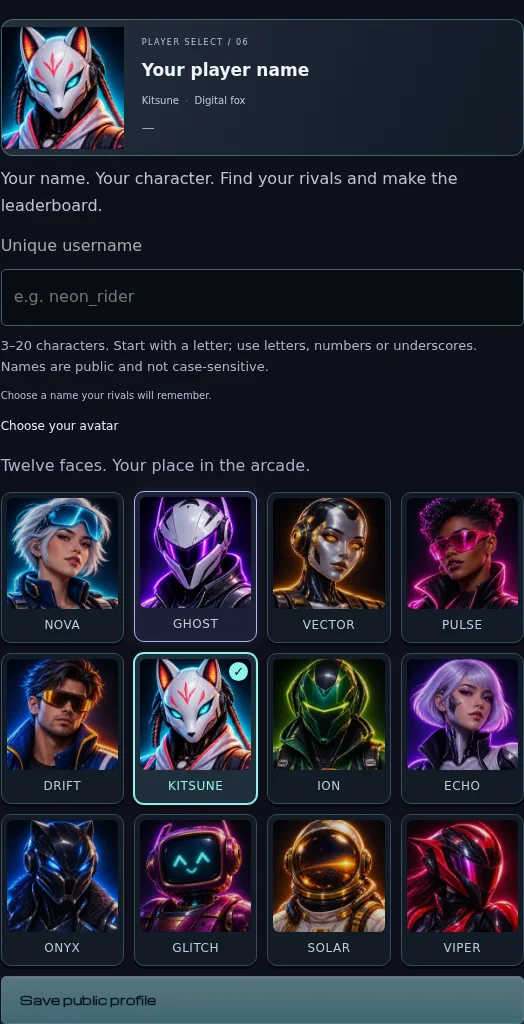
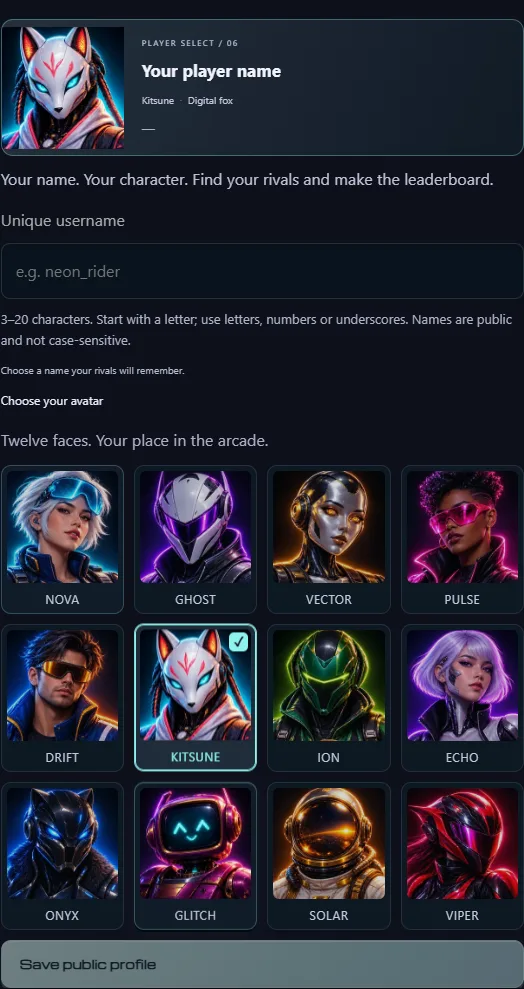
Refine arcade buttons, selectors and native picker interactions

Changed region(s): [[0.0, 0.0, 1.0, 1.0], [0.2748, 0.0303, 0.5802, 0.1213], [0.9771, 0.2427, 1.0, 0.3033]]

diff --git a/web/app/cabinet-controls.css b/web/app/cabinet-controls.css
@@ -1,0 +1,247 @@
+/* Arcade controls: satin keycaps, recessed selectors and quiet navigation. */
+:root {
+  --control-face: linear-gradient(160deg, #233440, #14212c 70%);
+  --control-edge: #91bac52e;
+  --control-shadow: inset 0 1px #d1f3f312, 0 2px 0 #02090e, 0 4px 8px #0002;
+  --control-focus: #a3f5ed;
+}
+
+:is(.cabinet-ui, .cabinet-dialog, .outcome) button {
+  border-color: var(--control-edge);
+  border-radius: 10px;
+  background: var(--control-face);
+  box-shadow: var(--control-shadow);
+  color: #dce9ee;
+  transition: background 160ms ease, border-color 160ms ease, box-shadow 160ms ease, transform 100ms ease;
+}
+:is(.cabinet-ui, .cabinet-dialog, .outcome) button:hover:not(:disabled) {
+  background: linear-gradient(160deg, #2b424e, #1b303b);
+  border-color: #9cdfdd70;
+  box-shadow: inset 0 1px #d1f3f31f, 0 2px 0 #02090e, 0 4px 14px #69e9e00a;
+}
+:is(.cabinet-ui, .cabinet-dialog, .outcome) button:active:not(:disabled) {
+  transform: translateY(1px);
+  box-shadow: inset 0 2px 5px #0004, 0 1px 0 #02090e;
+}
+:is(.cabinet-ui, .cabinet-dialog, .outcome) :is(button, a, input, select, textarea):focus-visible {
+  outline: 2px solid var(--control-focus);
+  outline-offset: 3px;
+}
+:is(.cabinet-ui, .cabinet-dialog, .outcome) button:disabled {
+  opacity: .5;
+  filter: saturate(.45);
+  box-shadow: inset 0 1px #d1f3f308;
+}
+.cabinet-ui button.primary, .cabinet-dialog button.primary, .outcome .button-row button:first-child {
+  background: linear-gradient(135deg, #b1f6ea, #7fddd8 65%, #79ccd7);
+  border-color: #b8fff080;
+  color: #082d35;
+  box-shadow: inset 0 1px #eaffffab, 0 3px 0 #285764, 0 8px 20px #62eadb12;
+}
+.cabinet-ui button.primary:hover:not(:disabled), .cabinet-dialog button.primary:hover:not(:disabled), .outcome .button-row button:first-child:hover:not(:disabled) {
+  background: linear-gradient(135deg, #cbfff3, #99ebe0 65%, #8fdfe5);
+  border-color: #ddfff2;
+  box-shadow: inset 0 1px #fff, 0 3px 0 #285764, 0 8px 25px #62eadb26;
+}
+.cabinet-ui .play-now { border-radius: 12px; }
+.cabinet-ui .play-now>span {
+  display: grid;
+  place-items: center;
+  width: 30px;
+  height: 30px;
+  border-radius: 50%;
+  background: #08313a0c;
+  border: 1px solid #08313a21;
+  font: 23px/1 var(--cabinet-font);
+}
+
+/* Navigation and profile links should read as navigation, not rows of keycaps. */
+.cabinet-ui nav[aria-label="Main navigation"] button,
+.cabinet-ui nav[aria-label="Main navigation"] button:hover:not(:disabled) {
+  border: 0;
+  border-radius: 0;
+  background: transparent;
+  box-shadow: none;
+  transform: none;
+}
+.cabinet-ui .header-docs { border-color: var(--control-edge); border-radius: 10px; background: #14242e; }
+.cabinet-ui .header-docs:hover { border-color: #9cdfdd70; text-decoration: none; background: #203640; }
+.cabinet-ui .home-shortcuts button, .cabinet-ui .home-player-tag {
+  background: transparent;
+  border-color: transparent;
+  box-shadow: none;
+}
+.cabinet-ui .home-shortcuts button:hover:not(:disabled), .cabinet-ui .home-player-tag:hover:not(:disabled) {
+  background: #8bc7d00a;
+  border-color: transparent;
+  box-shadow: none;
+}
+.cabinet-ui .home-player-tag { border-radius: 0; border-bottom: 1px solid #34404c; }
+.cabinet-dialog .more-menu>button { box-shadow: none; background: #17242e; border-color: #d0e8f017; }
+.cabinet-dialog .more-menu>button:hover { border-color: #85dfe25c; }
+
+/* Mutually exclusive modes share a single recessed rail. */
+.cabinet-ui .control-segments {
+  display: inline-flex;
+  align-items: stretch;
+  gap: 4px;
+  padding: 4px;
+  max-width: 100%;
+  border: 1px solid #a6d8e31c;
+  border-radius: 13px;
+  background: #050d14;
+  box-shadow: inset 0 2px 6px #0005, 0 1px #d6f6ff08;
+}
+.cabinet-ui .control-segments button {
+  flex: 1;
+  justify-content: center;
+  gap: 10px;
+  min-height: 44px;
+  padding: 9px 18px;
+  border: 1px solid transparent;
+  border-radius: 9px;
+  box-shadow: none;
+  background: transparent;
+  color: #a4b8c5;
+  font: 500 14px/1.5 var(--cabinet-font);
+}
+.cabinet-ui .control-segments button::before {
+  content: "";
+  flex: none;
+  width: 6px;
+  height: 6px;
+  border-radius: 50%;
+  background: #4e6471;
+}
+.cabinet-ui .control-segments button:hover:not(:disabled) { background: #1a2933; border-color: transparent; }
+.cabinet-ui .control-segments button[aria-pressed="true"] {
+  border-color: #88e4df45;
+  background: linear-gradient(150deg, #23444d, #17303a);
+  color: #ccfff2;
+  box-shadow: inset 0 1px #bbfff012, 0 2px 4px #0005;
+}
+.cabinet-ui .control-segments button[aria-pressed="true"]::before { background: #9cffe9; box-shadow: 0 0 7px #6fffe166; }
+.cabinet-ui .control-segments button:last-child[aria-pressed="true"] { background: linear-gradient(150deg, #3b304b, #292239); border-color: #c6a2f04a; color: #eadcff; }
+.cabinet-ui .control-segments button:last-child[aria-pressed="true"]::before { background: #d1aaff; box-shadow: 0 0 7px #c296ff66; }
+.cabinet-ui .mode-switch { align-items: center; }
+
+/* Native controls retain keyboard/typeahead behavior and a mobile-native fallback. */
+:is(.cabinet-ui, .cabinet-dialog) :is(input:not([type="range"]):not([type="checkbox"]), textarea),
+.cabinet-ui .social-layout input:not([type="checkbox"]) {
+  background: #09131d;
+  border-color: #96b3c22e;
+  border-radius: 9px;
+  box-shadow: inset 0 1px 4px #0004;
+  padding: 12px 14px;
+  transition: border-color 150ms ease, box-shadow 150ms ease;
+}
+:is(.cabinet-ui, .cabinet-dialog) :is(input, textarea):focus { border-color: #7ce7da8f; }
+:is(.cabinet-ui, .cabinet-dialog) [aria-invalid="true"] { border-color: #e296af; }
+:is(.cabinet-ui, .cabinet-dialog) select, .cabinet-ui .social-layout select {
+  appearance: none;
+  width: 100%;
+  min-width: 0;
+  min-height: 48px;
+  padding: 11px 42px 11px 14px;
+  border: 1px solid #a2c5d238;
+  border-radius: 9px;
+  color: #e2eef3;
+  background: linear-gradient(45deg, transparent 50%, #8fc5d0 50%) right 19px center/5px 5px no-repeat,
+    linear-gradient(135deg, #8fc5d0 50%, transparent 50%) right 14px center/5px 5px no-repeat,
+    linear-gradient(145deg, #1b2a36, #121f2a);
+  box-shadow: inset 0 1px #c8f5ff0d, 0 2px 4px #0002;
+  font: 400 16px/1.5 var(--cabinet-font);
+  cursor: pointer;
+}
+:is(.cabinet-ui, .cabinet-dialog) select:hover:not(:disabled) { border-color: #94cdd16e; }
+:is(.cabinet-ui, .cabinet-dialog) select:disabled { opacity: .5; cursor: not-allowed; }
+:is(.cabinet-ui, .cabinet-dialog) select option { background: #12212c; color: #deebf1; }
+
+/* Progressive CSS picker; unchanged <select><option> markup needs no JS menu. */
+@supports (appearance: base-select) {
+  :is(.cabinet-ui, .cabinet-dialog) select, .cabinet-ui .social-layout select,
+  :is(.cabinet-ui, .cabinet-dialog) select::picker(select) { appearance: base-select; }
+  :is(.cabinet-ui, .cabinet-dialog) select, .cabinet-ui .social-layout select {
+    background: linear-gradient(145deg, #1b2a36, #121f2a);
+    padding-right: 16px;
+    align-items: center;
+    gap: 12px;
+  }
+  :is(.cabinet-ui, .cabinet-dialog) select::picker-icon {
+    content: "";
+    width: 7px;
+    height: 7px;
+    border-right: 1.5px solid #9dcdd4;
+    border-bottom: 1.5px solid #9dcdd4;
+    transform: rotate(45deg);
+    transition: transform 150ms ease;
+  }
+  :is(.cabinet-ui, .cabinet-dialog) select:open { border-color: #8ce8d88c; box-shadow: 0 0 0 3px #70ecd10b; }
+  :is(.cabinet-ui, .cabinet-dialog) select:open::picker-icon { transform: rotate(225deg); }
+  :is(.cabinet-ui, .cabinet-dialog) select::picker(select) {
+    color: #deebf1;
+    background: #101c27;
+    border: 1px solid #567585;
+    border-radius: 12px;
+    padding: 5px;
+    margin-block: 7px;
+    max-height: min(340px, 60dvh);
+    box-shadow: 0 18px 40px #0009, inset 0 1px #cef8ff12;
+    font: 400 16px/1.5 var(--cabinet-font);
+    overscroll-behavior: contain;
+  }
+  :is(.cabinet-ui, .cabinet-dialog) select option {
+    display: flex;
+    gap: 16px;
+    align-items: center;
+    min-height: 44px;
+    padding: 11px 12px;
+    border-radius: 7px;
+    background: transparent;
+    cursor: pointer;
+  }
+  :is(.cabinet-ui, .cabinet-dialog) select option:checked { background: #8ee4d912; color: #b8fced; }
+  :is(.cabinet-ui, .cabinet-dialog) select option:hover,
+  :is(.cabinet-ui, .cabinet-dialog) select option:focus { background: #263e49; outline: 0; }
+  :is(.cabinet-ui, .cabinet-dialog) select option::checkmark { order: 1; margin-left: auto; color: #9df8df; }
+}
+
+/* Audio sliders and binary switches are not text-field boxes. */
+:is(.cabinet-ui, .cabinet-dialog) input[type="range"] {
+  appearance: none;
+  height: 44px;
+  background: transparent;
+  border: 0;
+  border-radius: 0;
+  padding: 0;
+  box-shadow: none;
+  cursor: pointer;
+  accent-color: #92ebe1;
+}
+:is(.cabinet-ui, .cabinet-dialog) input[type="range"]::-webkit-slider-runnable-track { height: 4px; border-radius: 4px; background: #38515d; }
+:is(.cabinet-ui, .cabinet-dialog) input[type="range"]::-webkit-slider-thumb { appearance: none; width: 18px; height: 18px; margin-top: -7px; border: 3px solid #b7fff0; border-radius: 50%; background: #326371; box-shadow: 0 0 0 4px #80ffe414; }
+:is(.cabinet-ui, .cabinet-dialog) input[type="range"]::-moz-range-track { height: 4px; border-radius: 4px; background: #38515d; }
+:is(.cabinet-ui, .cabinet-dialog) input[type="range"]::-moz-range-thumb { width: 12px; height: 12px; border: 3px solid #b7fff0; border-radius: 50%; background: #326371; }
+:is(.cabinet-ui, .cabinet-dialog) label:has(>input[type="checkbox"]) { display: flex; align-items: center; gap: 12px; min-height: 44px; cursor: pointer; }
+:is(.cabinet-ui, .cabinet-dialog) input[type="checkbox"] { width: 22px; height: 22px; min-height: 22px; flex: none; padding: 0; accent-color: #92ebe1; cursor: pointer; }
+.cabinet-dialog .arcade-settings button[aria-pressed] { justify-content: space-between; gap: 20px; }
+.cabinet-dialog .arcade-settings button[aria-pressed]::after { content: ""; width: 32px; height: 18px; flex: none; border: 1px solid #57717d; border-radius: 12px; background: radial-gradient(circle at 8px center, #a0b7c0 0 5px, transparent 5.5px), #09131b; }
+.cabinet-dialog .arcade-settings button[aria-pressed="true"]::after { border-color: #8de2d766; background: radial-gradient(circle at 22px center, #b0ffeb 0 5px, transparent 5.5px), #24584f; }
+
+/* Portraits retain their artwork and selection behavior; only the card finish changes. */
+:is(.cabinet-ui, .cabinet-dialog) .portrait-grid button { border-radius: 10px; border-color: #8daac729; box-shadow: none; background: #0d1823; padding: 5px; }
+:is(.cabinet-ui, .cabinet-dialog) .portrait-grid button[aria-checked="true"] { border-color: var(--avatar-accent); background: #263243; box-shadow: inset 0 0 0 1px var(--avatar-accent); }
+:is(.cabinet-ui, .cabinet-dialog) .portrait-grid button:hover:not(:disabled) { background: #243340; border-color: var(--avatar-accent); }
+:is(.cabinet-ui, .cabinet-dialog) .portrait-grid .avatar-check { border-radius: 5px; box-shadow: 0 2px 5px #0005; }
+
+@media (max-width:480px) {
+  .cabinet-ui .control-segments button { padding: 8px 17px; }
+  .cabinet-ui .play-now { min-height: 54px; }
+  .cabinet-ui .play-now>span { width: 26px; height: 26px; font-size: 21px; }
+  .cabinet-ui .social-layout .split:has(select) { flex-direction: column; gap: 16px; }
+  .cabinet-ui .social-layout .split:has(select)>label { width: 100%; margin: 0; }
+}
+@media (prefers-reduced-motion:reduce) {
+  :is(.cabinet-ui, .cabinet-dialog, .outcome) button,
+  :is(.cabinet-ui, .cabinet-dialog) select::picker-icon { transition: none; }
+}

diff --git a/tests/cabinet-ux.spec.ts b/tests/cabinet-ux.spec.ts
@@ -13,7 +13,10 @@ for(const viewport of [{width:360,height:640},{width:390,height:844},{width:768,
  await page.screenshot({path:`artifacts/cabinet-home-${viewport.width}.png`});
  for(const name of ["Ladder","Tournaments","Archive"]){await activity(page,name);expect(await page.evaluate(()=>{const e=new KeyboardEvent("keydown",{key:"ArrowDown",cancelable:true,bubbles:true});document.body.dispatchEvent(e);return e.defaultPrevented;})).toBe(false);expect(await page.evaluate(()=>document.documentElement.scrollWidth<=innerWidth)).toBe(true);}
  await page.getByRole("button",{name:"Rivals",exact:true}).click();await expect(page.getByRole("button",{name:"Send challenge"})).toBeDisabled();expect(await page.evaluate(()=>document.documentElement.scrollWidth<=innerWidth)).toBe(true);
- await page.getByRole("button",{name:"Arcade settings",exact:true}).click();await expect(page.getByRole("dialog",{name:"Arcade settings"})).toContainText("Karl Casey @ White Bat Audio");const top=await page.evaluate(()=>document.body.style.top);await page.mouse.wheel(0,300);expect(await page.evaluate(()=>document.body.style.top)).toBe(top);await page.keyboard.press("Escape");await expect(page.getByRole("dialog")).toHaveCount(0);
+ await page.getByRole("button",{name:"Arcade settings",exact:true}).click();const settings=page.getByRole("dialog",{name:"Arcade settings"});await expect(settings).toContainText("Karl Casey @ White Bat Audio");const top=await page.evaluate(()=>document.body.style.top);await page.mouse.wheel(0,300);expect(await page.evaluate(()=>document.body.style.top)).toBe(top);
+ await settings.getByText("Room appearance",{exact:true}).click();const intensity=settings.getByLabel("Background intensity",{exact:true});
+ if(await page.evaluate(()=>CSS.supports("appearance","base-select"))){await intensity.click();await expect(intensity).toHaveJSProperty("value","full");await page.keyboard.press("Escape");await expect(settings).toBeVisible();await expect(intensity).toBeFocused();}
+ await intensity.selectOption("subtle");await expect(page.locator(".arcade-background")).toHaveAttribute("data-intensity","subtle");await page.keyboard.press("Escape");await expect(page.getByRole("dialog")).toHaveCount(0);
  await page.getByRole("button",{name:"Connect passkey",exact:true}).click();await expect(page.locator("body")).toHaveCSS("position","fixed");await page.keyboard.press("Escape");await expect(page.getByRole("dialog")).toHaveCount(0);
  await page.reload();await expect(page.getByRole("dialog",{name:"Enter PONGIT arcade"})).toHaveCount(0);await page.emulateMedia({reducedMotion:"reduce"});expect(await page.locator(".arcade-background").evaluate(e=>e.getAnimations({subtree:true}).length)).toBe(0);expect(errors).toEqual([]);
  }finally{await context.close();}

diff --git a/web/components/Arena.tsx b/web/components/Arena.tsx
@@ -1074,7 +1074,7 @@ export function Arena({ initialTab = "Play" }: { initialTab?: string }) {
       {tab==="Rivals" && (!account || needsArcadeRenewal) && <button className="primary" disabled={busy} onClick={()=>void act(connectFromButton)}>{account?"Reconnect to challenge":"Connect to challenge"}</button>}
       <SocialHub ready={!busy && ((config?.version||1)<3 || arcadeExpires>Date.now()/1000)} mode={mode} key={`social-${account}`} account={account} config={config} visible={tab==="Rivals"} target={challengeTarget} authenticate={authenticateApp} identity={()=>owner.current} open={()=>setTab("Rivals")} enter={enterChallenge} matchRef={noteContext?.ref || (selected?`v${config?.version || 1}:${selected}`:undefined)} atUs={noteContext?.atUs || String(clock)} applyPreferences={settings=>{if(queued || canControl)throw new Error("Finish the active match or search before applying preferences.");setMode(settings.preferredMode===1?1:0);arcadeAudio.configure({enabled:settings.sound,entered:true});}}/>
       <Outcome id={selected?`${config?.game}:${selected}`:null} match={match} account={account} rating={player?Number((match?.mode===1?player.chaosRating:player.rating)?.elo || 1000):null} sound={sound} replay={tab==="Archive"} rematch={rematch} watch={()=>void act(()=>loadReplay(selected!))} again={()=>{setSelected(null);setMatch(null);setState(null);setTournamentId("0");setTab("Play");void act(()=>joinQueue(mode,"0"));}}/>
-      {(tab==="Ladder") && <div className="mode-switch" role="group" aria-label="Game mode"><button disabled={queued || busy || canControl} aria-pressed={mode===0} onClick={()=>setMode(0)}>01 / Classic</button><button disabled={queued || busy || canControl || tournamentId!=="0"} aria-pressed={mode===1} onClick={()=>setMode(1)}>02 / Chaos</button><p>{mode===1?"Crowd pressure shrinks the favourite's paddle. Changes apply between rallies.":"Pure Pong. Separate ranked ladder. First to seven."}</p></div>}
+      {(tab==="Ladder") && <div className="mode-switch"><div className="control-segments" role="group" aria-label="Game mode"><button disabled={queued || busy || canControl} aria-pressed={mode===0} onClick={()=>setMode(0)}>01 / Classic</button><button disabled={queued || busy || canControl || tournamentId!=="0"} aria-pressed={mode===1} onClick={()=>setMode(1)}>02 / Chaos</button></div><p>{mode===1?"Crowd pressure shrinks the favourite's paddle. Changes apply between rallies.":"Pure Pong. Separate ranked ladder. First to seven."}</p></div>}
       {fundingWarning && <p className="notice" role="status">Sponsorship: {fundingWarning}</p>}
       {!["Play", "Live", "Archive"].includes(tab) && <p className="status-line" role="status">{message}</p>}
       {error && (

diff --git a/web/components/HomeCabinet.tsx b/web/components/HomeCabinet.tsx
@@ -11,7 +11,7 @@ export function HomeCabinet({mode,setMode,busy,active,play,challenge,watch,profi
      <div className="cabinet-pong" aria-hidden="true"><i/><b/><i/></div>
      <button className="primary play-now" disabled={busy} onClick={play}>{busy?"Please wait…":active?"Resume match":"Play now"}<span aria-hidden="true">↗</span></button>
      <p className="play-caption">{mode===1?"Chaos":"Classic"} · Ranked · Free to play</p>
-     <div className="cabinet-mode" role="group" aria-label="Game mode"><button aria-pressed={mode===0} disabled={busy||active} onClick={()=>setMode(0)}>Classic</button><button aria-pressed={mode===1} disabled={busy||active} onClick={()=>setMode(1)}>Chaos</button></div>
+     <div className="cabinet-mode control-segments" role="group" aria-label="Game mode"><button aria-pressed={mode===0} disabled={busy||active} onClick={()=>setMode(0)}>Classic</button><button aria-pressed={mode===1} disabled={busy||active} onClick={()=>setMode(1)}>Chaos</button></div>
      {mode===1 && <p className="mode-description">The crowd can shrink the favourite’s paddle.</p>}
    </div></div>
    <div className="cabinet-deck"><div aria-hidden="true" className="deck-joystick"><i/></div><span>FIRST TO SEVEN<br/><small>GAS IS ON US</small></span><div className="deck-buttons" aria-hidden="true"><i/><i/></div></div>

diff --git a/web/app/docs/docs.css b/web/app/docs/docs.css
@@ -20,5 +20,9 @@
 html[data-tab-hidden=true] .docs-site *,html[data-tab-hidden=true] .docs-overlay *{animation-play-state:paused!important}
 
 /* A fixed decal only; documentation never mounts the game or motion coordinator. */
+.docs-site button,.docs-overlay button{border-color:var(--control-edge);border-radius:10px;background:var(--control-face);box-shadow:inset 0 1px #d1f3f310}
+.docs-site button:hover,.docs-overlay button:hover{background:#213541;border-color:#9cdfdd70;box-shadow:none}
+.docs-site .docs-mobile-bar>button{background:transparent;box-shadow:none;border:0;border-radius:0}
+.docs-site .docs-back{border-color:var(--control-edge);border-radius:10px;background:#172a33}
 .docs-site .docs-pixel-accent{position:absolute;right:34px;top:30px;--pixel-size:46px;opacity:.85}
 @media(max-width:1000px){.docs-site .docs-pixel-accent{right:5px;top:1px;--pixel-size:28px}}

diff --git a/web/lib/dialog.ts b/web/lib/dialog.ts
@@ -32,6 +32,8 @@ export function useDialog(ref:RefObject<HTMLElement|null>,active:boolean,close:(
     (el.querySelector<HTMLElement>("[data-autofocus]")||controls()[0]||el).focus({preventScroll:true});
     const key=(event:KeyboardEvent)=>{
       if(stack.at(-1)!==el)return;
+      // A native picker owns Escape until it closes; keep its parent dialog open.
+      if(event.key==="Escape" && CSS.supports("selector(select:open)") && el.querySelector("select:open"))return;
       if(event.key==="Escape"){event.preventDefault();event.stopImmediatePropagation();closeRef.current();}
       if(event.key==="Tab"){
         const list=controls(),first=list[0],last=list.at(-1);

diff --git a/web/app/layout.tsx b/web/app/layout.tsx
@@ -5,6 +5,7 @@ import "./neon-rush.css";
 import "./cabinet.css";
 import "./cabinet-tokens.css";
 import "./neon-cabinet.css";
+import "./cabinet-controls.css";
 const michroma = localFont({ src: "./fonts/Michroma-Regular.ttf", weight: "400", display: "swap", variable: "--font-michroma" });
 export const metadata: Metadata = {
   title: "PONGIT — Every point onchain",

diff --git a/docs/CONTROLS.md b/docs/CONTROLS.md
@@ -1,0 +1,17 @@
+# Arcade controls refinement
+
+7 September 2026.
+
+The cabinet's buttons now use satin surfaces, softer outlines and a short press response. Navigation remains flat; primary actions use a cyan keycap. Classic and Chaos share one recessed selector with a distinct selected light, while avatar cards retain their artwork with a cleaner selection border.
+
+Form controls use consistent spacing and dark surfaces. Supporting browsers also render the native dropdown picker with rounded options and a visible selection check. The implementation uses CSS progressive enhancement and preserves standard select/option markup, keyboard selection and the native fallback. Reference: [MDN customizable selects](https://developer.mozilla.org/en-US/docs/Learn_web_development/Extensions/Forms/Customizable_select).
+
+Audio sliders have slim tracks and larger thumb indicators. Saved values are unchanged. Mobile challenge options stack vertically to keep their complete labels readable. The first Escape key closes an open native picker; the second closes its parent dialog.
+
+Changes are restricted to presentation, selector grouping and Escape handling. There are no contract, API, financial, database, music or session-format changes. The documentation's button styles and its four feature screenshots are updated.
+
+Before release: TypeScript checking passed. Chrome and Edge visual checks at 1440 and 360 pixels exercised mode switching, keyboard and pointer selection, slider touch control and saved preferences. The existing responsive browser suite now includes the picker/dialog Escape regression.
+
+Backup `20260907T102459Z` completed on the VPS and its private offsite copy was checksum-verified. Retain the current `6ad6559ed049b808568f9f3770de42f4f469d399` release and `pongit-web:controls-previous` image for rollback. Only the web container needs replacement; financial services remain running.
+
+GitHub publication remains pending repository write access. The local commits and deployed source are retained independently of GitHub.
